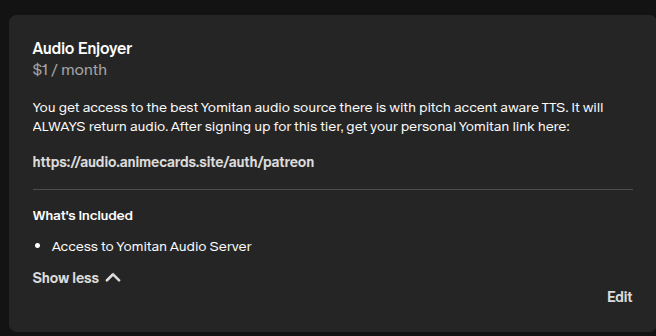
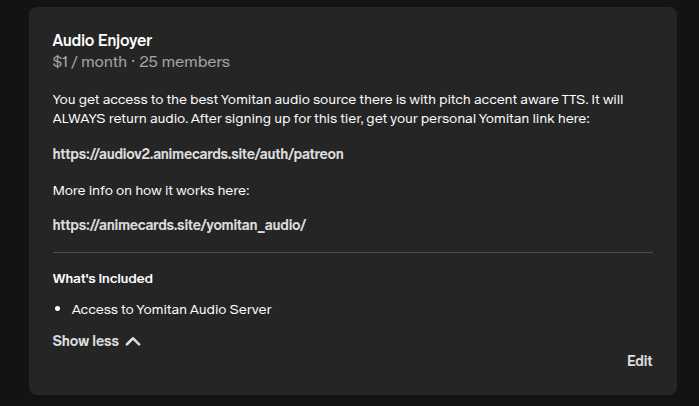
Add new features

diff --git a/docs/yomitan_audio.md b/docs/yomitan_audio.md
@@ -9,7 +9,7 @@ Tired of this sound?
 
 <insert video of clicking yomitan with no audio>
 
-I have created an audio source that uses several techniques to ensure you **always** get high quality audio for your Yomitan cards. Here is what it can do:
+I have created the biggest audio source that not only has the biggest collection of human pronunciations but also uses several techniques to ensure you **always** get high quality audio for your Yomitan cards. Here is what it can do:
 
 ## Match alternative forms
 
@@ -88,6 +88,33 @@ The TTS references known pitch accent patterns for words with multiple pitch acc
 
 If no pitch accent pattern is available the TTS will take a best guess.
 
+## TTS pitch accent override (**NEW**)
+
+Mining a word without an entry in the pitch accent database and the TTS guesses the wrong pitch accent? You can now generate every possible pitch accent variation there is including vowel variations. Let's look at a few example:
+
+Theoretically a word read as こう could be read in 4 ways: ```コウ、コー、コ'ウ、コ'ー```
+
+The **Ultimate Yomitan Audio Source** will now allow you to generate all of these variations letting you ensure you get correct pitch and pronunciation no matter how obscure the word is!
+
+<figure>
+  <img src="../images/kou_pitch.png" width="300">
+</figure>
+
+Let's look at one more example: 平成 (へいせい). In addition to giving you the TTS with the pitch from the database (平板 in this case), it will also let you generate every possible variation of the word.
+
+<figure>
+  <img src="../images/heisei_pitch.png" width="300">
+</figure>
+
+## Pick your sources (**NEW**)
+
+Only want human audio and no TTS? No problem. You can now pick and choose what sources you want to include.
+
+<figure>
+  <img src="../images/query_builder.png" width="400">
+</figure>
+
+
 ## No reading - No problem
 
 Some dictionaries have entries without any reading at all. The **Ultimate Yomitan Audio Source** can handle these entries by making an educated guess at the reading. For example:
@@ -118,7 +145,7 @@ Access is available for all users signed up to the **$1 tier** on my [Patreon](h
     <img src="../images/patreon_tier.png" width="600">
 </figure>
 
-1. Subscribe on [Patreon](https://www.patreon.com/c/quizmaster/membership) → Get your personal API key by authenticating [here](https://audio.animecards.site/auth/patreon).
+1. Subscribe on [Patreon](https://www.patreon.com/c/quizmaster/membership) → Get your personal API key by authenticating [here](https://audiov2.animecards.site/auth/patreon).
 
 2. Open Yomitan settings → Navigate to Audio sources → Add a new audio source with the following details:
 
@@ -162,6 +189,6 @@ This is currently the biggest word audio database in existence. Here is an overv
 
 | Audio Source                                                                                                | Entries             |
 | ----------------------------------------------------------------------------------------------------------- | ------------------- |
-| [Yomitan Ultimate Audio Source](https://animecards.site/yomitan_audio/)                                     | 838078 + TTS Fallback |
+| [Yomitan Ultimate Audio Source](https://animecards.site/yomitan_audio/)                                     | 877464 + TTS Fallback |
 | [Yomichan Audio Server Entries (Rust Server)](https://github.com/aramrw/yomichan_audio_server)               | 732607 (without Chinese)    |
 | [Local Audio Yomichan (Anki Add-on)](https://github.com/yomidevs/local-audio-yomichan)                       | 590410              |
